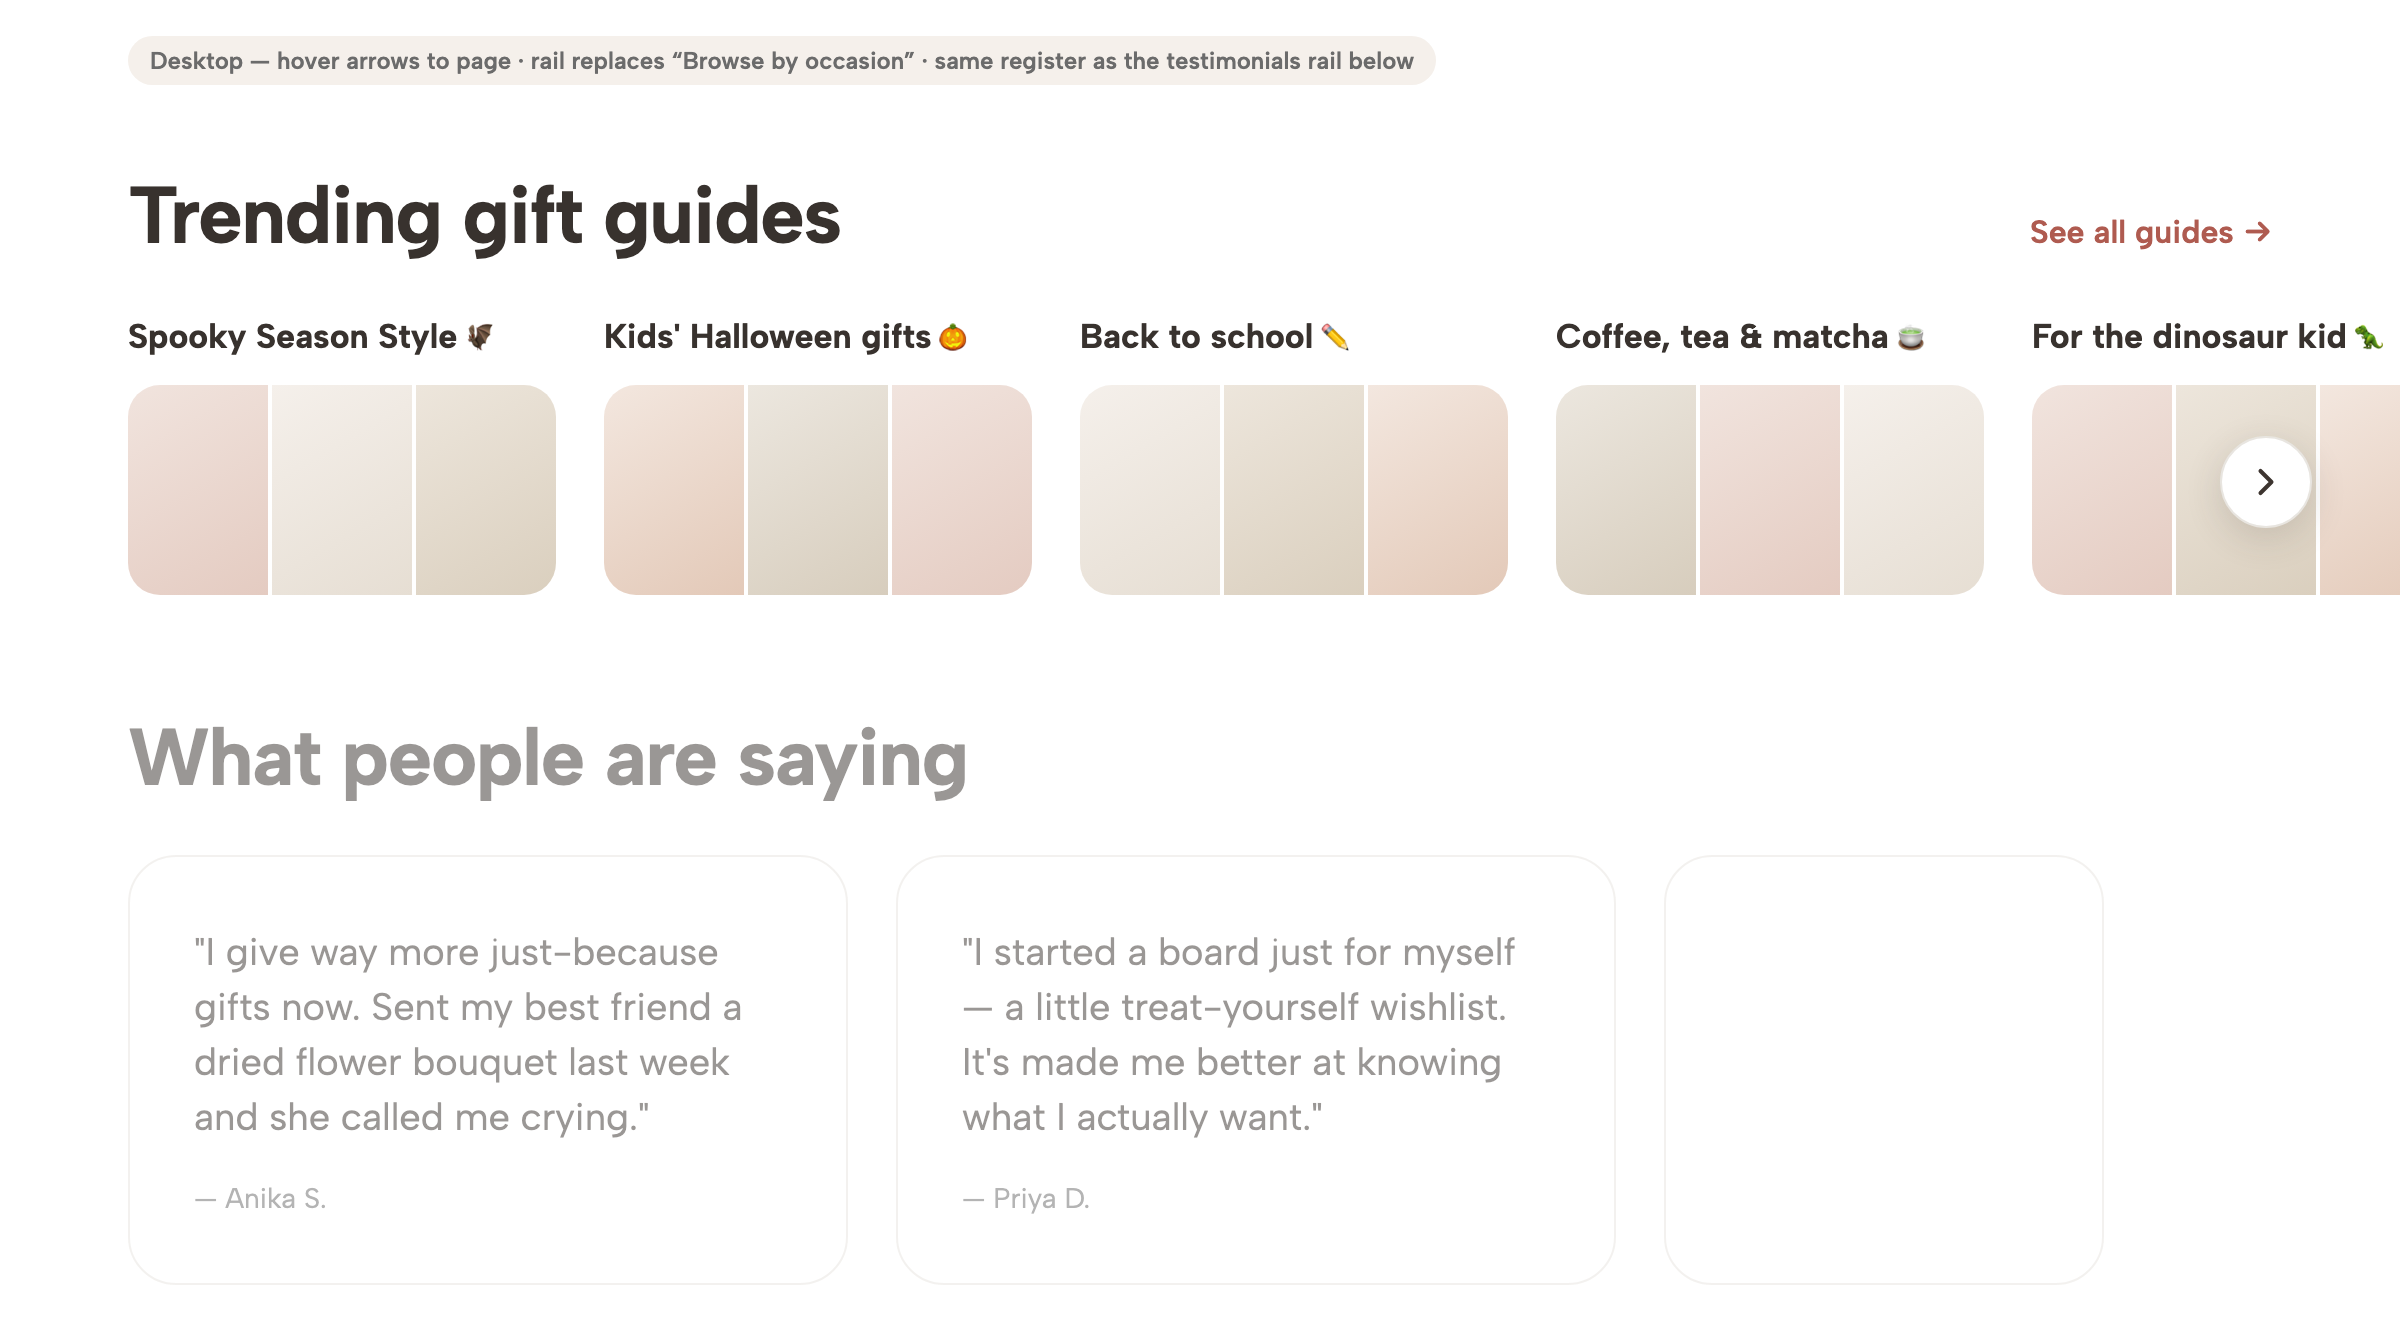
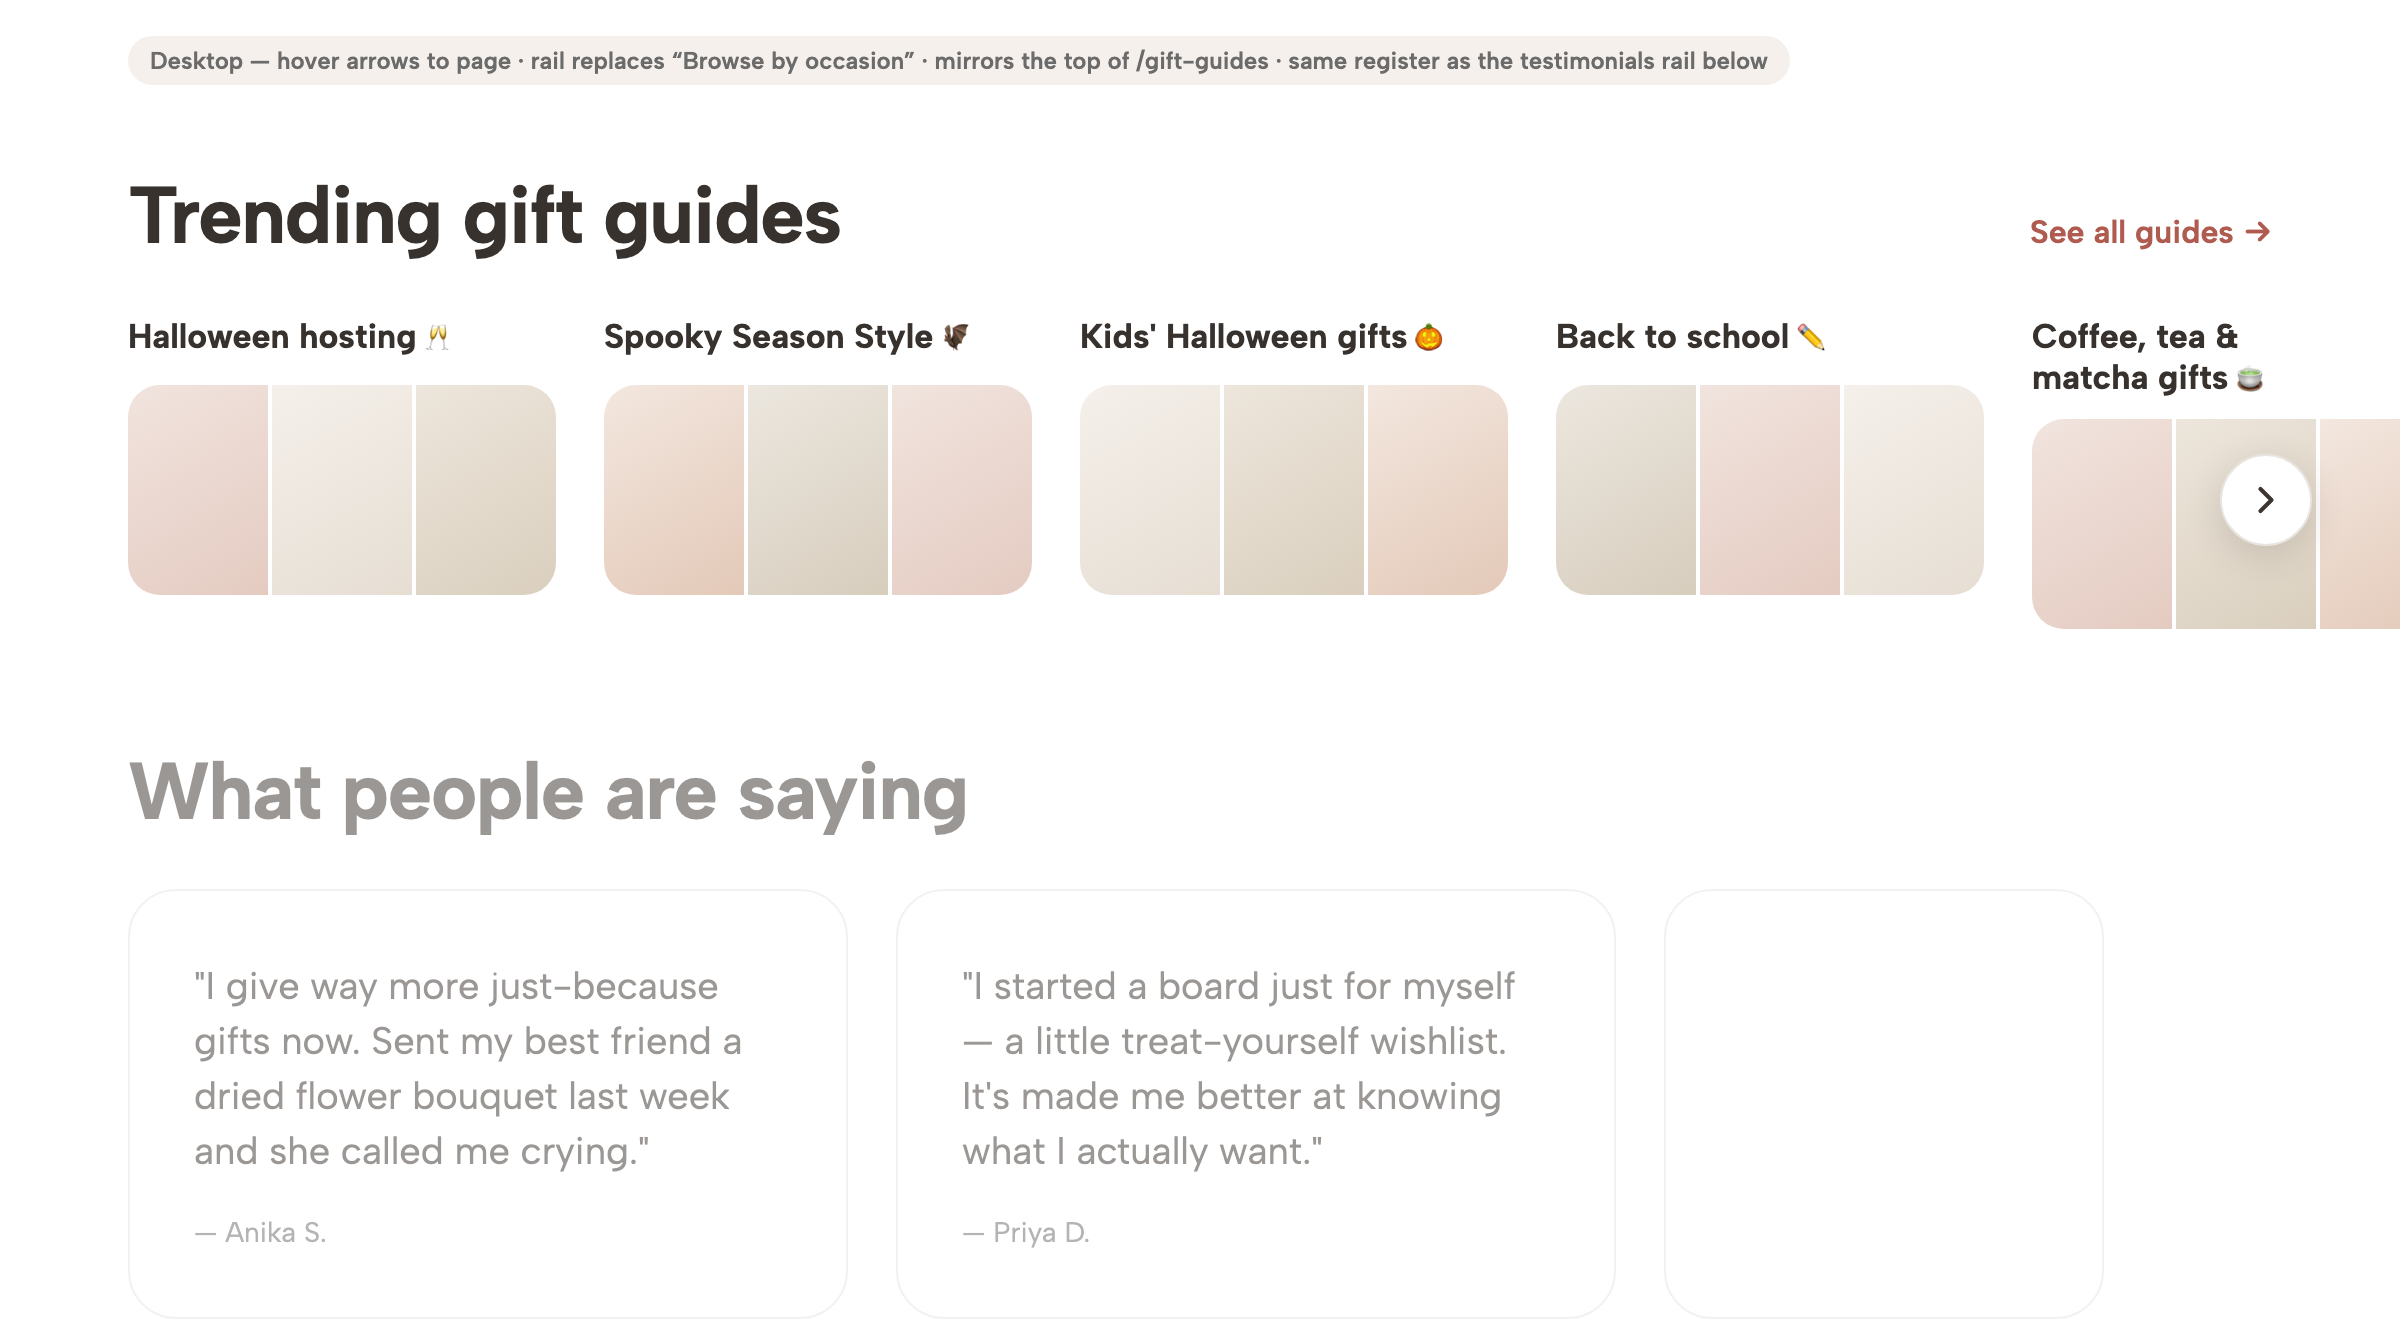
QA fixes: mock leads with the real top of /gift-guides; symbol refs not line numbers
Own adversarial pass on the spec+mock:
- mock now mirrors the actual visible top of /gift-guides (Halloween hosting first),
  matching the spec's 'mirror the top' claim (July-4 guides are out of season).
- spec drops stale line numbers (master moved) for greppable symbol refs.

diff --git a/homepage-gift-guides-rail/mock-desktop.html b/homepage-gift-guides-rail/mock-desktop.html
@@ -17,10 +17,10 @@
 </head>
 <body>
   <div style="padding:18px 64px 0;">
-    <span style="display:inline-block; background:#F5F0EB; color:#6B6B6B; font-size:12px; font-weight:600; padding:5px 11px; border-radius:9999px;">Desktop — hover arrows to page · rail replaces “Browse by occasion” · same register as the testimonials rail below</span>
+    <span style="display:inline-block; background:#F5F0EB; color:#6B6B6B; font-size:12px; font-weight:600; padding:5px 11px; border-radius:9999px;">Desktop — hover arrows to page · rail replaces “Browse by occasion” · mirrors the top of /gift-guides · same register as the testimonials rail below</span>
   </div>
 
-  <!-- ===== Trending gift guides rail ===== -->
+  <!-- ===== Trending gift guides rail (top of /gift-guides today) ===== -->
   <div style="padding:44px 0 12px;">
     <div style="display:flex; justify-content:space-between; align-items:baseline; padding:0 64px; margin-bottom:30px;">
       <h2 style="margin:0; font-size:40px; font-weight:700; letter-spacing:-0.02em; line-height:1.05;">Trending gift guides</h2>
@@ -28,12 +28,12 @@
     </div>
     <div style="position:relative;">
       <div style="display:flex; gap:24px; overflow-x:hidden; padding:0 64px 8px;">
-        <div class="gcard"><div class="gtitle">Spooky Season Style<span class="gemoji">&nbsp;🦇</span></div><div class="gstrip"><div class="gtile" style="background:linear-gradient(150deg,#F1E4DE,#E4CBC1);"></div><div class="gtile" style="background:linear-gradient(150deg,#F5F0EB,#E6DED3);"></div><div class="gtile" style="background:linear-gradient(150deg,#EDE6DC,#DACFBE);"></div></div></div>
-        <div class="gcard"><div class="gtitle">Kids' Halloween gifts<span class="gemoji">&nbsp;🎃</span></div><div class="gstrip"><div class="gtile" style="background:linear-gradient(150deg,#F3E7DF,#E3C9B8);"></div><div class="gtile" style="background:linear-gradient(150deg,#ECE7DF,#D7CDBD);"></div><div class="gtile" style="background:linear-gradient(150deg,#F1E4DE,#E4CBC1);"></div></div></div>
-        <div class="gcard"><div class="gtitle">Back to school<span class="gemoji">&nbsp;✏</span></div><div class="gstrip"><div class="gtile" style="background:linear-gradient(150deg,#F5F0EB,#E6DED3);"></div><div class="gtile" style="background:linear-gradient(150deg,#EDE6DC,#DACFBE);"></div><div class="gtile" style="background:linear-gradient(150deg,#F3E7DF,#E3C9B8);"></div></div></div>
-        <div class="gcard"><div class="gtitle">Coffee, tea &amp; matcha<span class="gemoji">&nbsp;🍵</span></div><div class="gstrip"><div class="gtile" style="background:linear-gradient(150deg,#ECE7DF,#D7CDBD);"></div><div class="gtile" style="background:linear-gradient(150deg,#F1E4DE,#E4CBC1);"></div><div class="gtile" style="background:linear-gradient(150deg,#F5F0EB,#E6DED3);"></div></div></div>
-        <div class="gcard"><div class="gtitle">For the dinosaur kid<span class="gemoji">&nbsp;🦖</span></div><div class="gstrip"><div class="gtile" style="background:linear-gradient(150deg,#F1E4DE,#E4CBC1);"></div><div class="gtile" style="background:linear-gradient(150deg,#EDE6DC,#DACFBE);"></div><div class="gtile" style="background:linear-gradient(150deg,#F3E7DF,#E3C9B8);"></div></div></div>
-        <div class="gcard"><div class="gtitle">Date night in<span class="gemoji">&nbsp;🌙</span></div><div class="gstrip"><div class="gtile" style="background:linear-gradient(150deg,#F5F0EB,#E6DED3);"></div><div class="gtile" style="background:linear-gradient(150deg,#EDE6DC,#DACFBE);"></div><div class="gtile" style="background:linear-gradient(150deg,#F3E7DF,#E3C9B8);"></div></div></div>
+        <div class="gcard"><div class="gtitle">Halloween hosting<span class="gemoji">&nbsp;🥂</span></div><div class="gstrip"><div class="gtile" style="background:linear-gradient(150deg,#F1E4DE,#E4CBC1);"></div><div class="gtile" style="background:linear-gradient(150deg,#F5F0EB,#E6DED3);"></div><div class="gtile" style="background:linear-gradient(150deg,#EDE6DC,#DACFBE);"></div></div></div>
+        <div class="gcard"><div class="gtitle">Spooky Season Style<span class="gemoji">&nbsp;🦇</span></div><div class="gstrip"><div class="gtile" style="background:linear-gradient(150deg,#F3E7DF,#E3C9B8);"></div><div class="gtile" style="background:linear-gradient(150deg,#ECE7DF,#D7CDBD);"></div><div class="gtile" style="background:linear-gradient(150deg,#F1E4DE,#E4CBC1);"></div></div></div>
+        <div class="gcard"><div class="gtitle">Kids' Halloween gifts<span class="gemoji">&nbsp;🎃</span></div><div class="gstrip"><div class="gtile" style="background:linear-gradient(150deg,#F5F0EB,#E6DED3);"></div><div class="gtile" style="background:linear-gradient(150deg,#EDE6DC,#DACFBE);"></div><div class="gtile" style="background:linear-gradient(150deg,#F3E7DF,#E3C9B8);"></div></div></div>
+        <div class="gcard"><div class="gtitle">Back to school<span class="gemoji">&nbsp;✏</span></div><div class="gstrip"><div class="gtile" style="background:linear-gradient(150deg,#ECE7DF,#D7CDBD);"></div><div class="gtile" style="background:linear-gradient(150deg,#F1E4DE,#E4CBC1);"></div><div class="gtile" style="background:linear-gradient(150deg,#F5F0EB,#E6DED3);"></div></div></div>
+        <div class="gcard"><div class="gtitle">Coffee, tea &amp; matcha gifts<span class="gemoji">&nbsp;🍵</span></div><div class="gstrip"><div class="gtile" style="background:linear-gradient(150deg,#F1E4DE,#E4CBC1);"></div><div class="gtile" style="background:linear-gradient(150deg,#EDE6DC,#DACFBE);"></div><div class="gtile" style="background:linear-gradient(150deg,#F3E7DF,#E3C9B8);"></div></div></div>
+        <div class="gcard"><div class="gtitle">For the dinosaur kid<span class="gemoji">&nbsp;🦖</span></div><div class="gstrip"><div class="gtile" style="background:linear-gradient(150deg,#F5F0EB,#E6DED3);"></div><div class="gtile" style="background:linear-gradient(150deg,#EDE6DC,#DACFBE);"></div><div class="gtile" style="background:linear-gradient(150deg,#F3E7DF,#E3C9B8);"></div></div></div>
       </div>
       <!-- desktop paging arrow (right); left arrow appears once scrolled -->
       <div style="position:absolute; top:56%; transform:translateY(-50%); right:44px; width:46px; height:46px; border-radius:9999px; background:#fff; border:1px solid #E8E5E0; box-shadow:0 5px 18px rgba(61,53,48,0.16); display:flex; align-items:center; justify-content:center;">

diff --git a/homepage-gift-guides-rail/mock-mobile.html b/homepage-gift-guides-rail/mock-mobile.html
@@ -19,15 +19,14 @@
 </style>
 </head>
 <body>
-  <div class="cap">Mobile — swipe · rail replaces “Browse by occasion”</div>
+  <div class="cap">Mobile — swipe · rail replaces “Browse by occasion” · mirrors the top of /gift-guides</div>
   <div class="phone">
-    <!-- header (thea wordmark + sign in) -->
     <div style="display:flex; align-items:center; justify-content:space-between; padding:16px 16px 0;">
       <span style="font-family:'Source Serif 4',Georgia,serif; font-style:italic; font-size:22px; color:#AF5B50;">thea</span>
       <span style="font-size:13px; color:#6B6B6B;">Sign in</span>
     </div>
 
-    <!-- ===== Trending gift guides rail ===== -->
+    <!-- ===== Trending gift guides rail (top of /gift-guides today) ===== -->
     <div style="padding: 30px 0 8px;">
       <div style="display:flex; justify-content:space-between; align-items:baseline; padding:0 16px; margin-bottom:20px;">
         <h2 style="margin:0; font-size:28px; font-weight:700; letter-spacing:-0.02em; line-height:1.1;">Trending gift guides</h2>
@@ -35,19 +34,19 @@
       </div>
       <div style="display:flex; gap:16px; overflow-x:auto; padding:0 16px 8px;">
         <div class="gcard">
-          <div class="gtitle">Spooky Season Style<span class="gemoji">&nbsp;🦇</span></div>
+          <div class="gtitle">Halloween hosting<span class="gemoji">&nbsp;🥂</span></div>
           <div class="gstrip"><div class="gtile" style="background:linear-gradient(150deg,#F1E4DE,#E4CBC1);"></div><div class="gtile" style="background:linear-gradient(150deg,#F5F0EB,#E6DED3);"></div><div class="gtile" style="background:linear-gradient(150deg,#EDE6DC,#DACFBE);"></div></div>
         </div>
         <div class="gcard">
-          <div class="gtitle">Kids' Halloween gifts<span class="gemoji">&nbsp;🎃</span></div>
+          <div class="gtitle">Spooky Season Style<span class="gemoji">&nbsp;🦇</span></div>
           <div class="gstrip"><div class="gtile" style="background:linear-gradient(150deg,#F3E7DF,#E3C9B8);"></div><div class="gtile" style="background:linear-gradient(150deg,#ECE7DF,#D7CDBD);"></div><div class="gtile" style="background:linear-gradient(150deg,#F1E4DE,#E4CBC1);"></div></div>
         </div>
         <div class="gcard">
-          <div class="gtitle">Back to school<span class="gemoji">&nbsp;✏</span></div>
+          <div class="gtitle">Kids' Halloween gifts<span class="gemoji">&nbsp;🎃</span></div>
           <div class="gstrip"><div class="gtile" style="background:linear-gradient(150deg,#F5F0EB,#E6DED3);"></div><div class="gtile" style="background:linear-gradient(150deg,#EDE6DC,#DACFBE);"></div><div class="gtile" style="background:linear-gradient(150deg,#F3E7DF,#E3C9B8);"></div></div>
         </div>
         <div class="gcard">
-          <div class="gtitle">Coffee, tea &amp; matcha<span class="gemoji">&nbsp;🍵</span></div>
+          <div class="gtitle">Back to school<span class="gemoji">&nbsp;✏</span></div>
           <div class="gstrip"><div class="gtile" style="background:linear-gradient(150deg,#ECE7DF,#D7CDBD);"></div><div class="gtile" style="background:linear-gradient(150deg,#F1E4DE,#E4CBC1);"></div><div class="gtile" style="background:linear-gradient(150deg,#F5F0EB,#E6DED3);"></div></div>
         </div>
       </div>

diff --git a/homepage-gift-guides-rail/SPEC.md b/homepage-gift-guides-rail/SPEC.md
@@ -42,9 +42,10 @@ Hero → FeatureStack → EmotionalBanner → [Trending gift guides rail] → Te
 ## 3. Current state — exact anchors in this repo
 
 - `src/components/landing/marketing/LandingPage.tsx` — the `!showSignedInLayout` JSX block renders
-  `FeatureStack → EmotionalBanner → TestimonialsCarousel → OccasionBrowse` (the `<OccasionBrowse …/>` at
-  ~L525). `occasionsHeading` / `occasionTiles` props (~L62–63, 205–206) feed it; **grep-confirmed no
-  external caller passes them**, and `OccasionBrowse` is imported only here + its own test/story.
+  `FeatureStack → EmotionalBanner → TestimonialsCarousel → OccasionBrowse` (grep `OccasionBrowse` /
+  `occasionsHeading` / `occasionTiles` — line numbers omitted, master moves). Those two props feed
+  `OccasionBrowse`; **grep-confirmed no external caller passes them**, and `OccasionBrowse` is imported
+  only here + its own test/story.
 - `src/theaWeb/guide/GuideBrowse.tsx` — the `/gift-guides` card: an emotive **title + emoji** over a
   **3-tile (aspect 2:3) product "peek strip"**, 16px radius, 2px gaps. Its `Section/Title/Strip/Tile`
   styled-components are **module-private** (only `GuideBrowse`, its props, and `GUIDE_BROWSE_TILE_COUNT`
